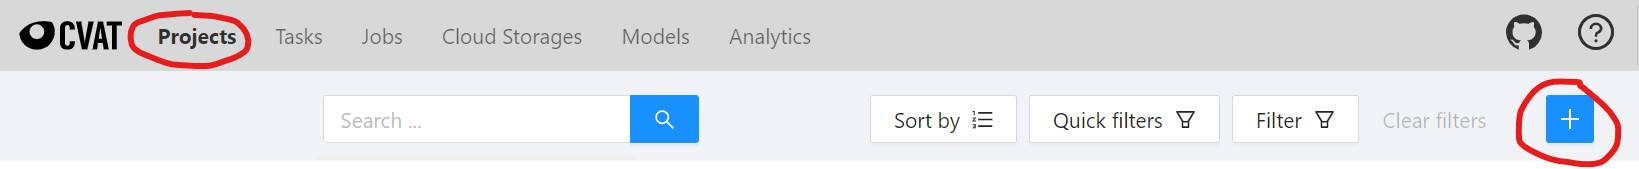
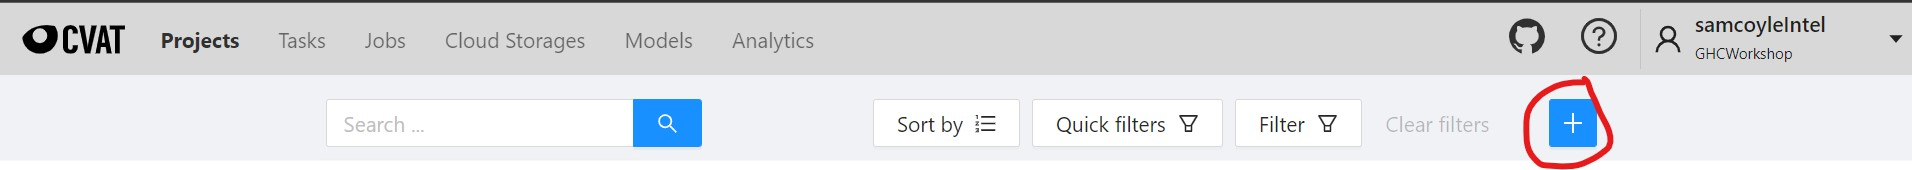
docs(pics): add more pics for steps

diff --git a/annotationSteps.md b/annotationSteps.md
@@ -17,11 +17,12 @@ Jobs allow you to split up tasks by frame to divvy up the annotations among a te
         Please disregard and close the note.
       ![CVAT Notice](./assets/screenshots/notice.jpg)
 2. Use the top navigation bar to click `Projects`.
+    ![CVAT Project Tab](./assets/screenshots/projects.jpg)
 3. Click the blue `+` sign to create a new project.
-      ![CVAT Project](./assets/screenshots/createProject.jpg)
+    ![CVAT Project](./assets/screenshots/createProject.jpg)
 4. Copy the details from the image below to fill out the project to be created. 
       For the raw label data, copy/paste the data snipped below the picture.
-   ![CVAT Project](./assets/screenshots/project.jpg)
+   ![CVAT Project](./assets/screenshots/projectDetails.jpg)
 
     Raw Label data to copy/paste into the CVAT UI: 
 ```json
@@ -54,34 +55,33 @@ Jobs allow you to split up tasks by frame to divvy up the annotations among a te
         ]
       }
     ]
-  },
-  {
-    "name": "Face",
-    "id": 1205813,
-    "color": "#90e8ce",
-    "attributes": []
   }
 ]
 ```
 > Note: For more information on the labels used for the workshop, please refer to the [Annotation Specifications Doc](./annotationSpecifications.md).
 
 5. Click on your newly created project and click on the blue `+` sign at the bottom right of it to create a new `task` for it.
+    ![Create Task](./assets/screenshots/createTask.jpg)
 6. Create your tasks copying the details below and click submit on your task:
     ![CVAT Task](./assets/screenshots/task.jpg)
     > Note: The test footage may be found [here](./assets/video/workshopFootage.mp4).
       You will use this video file for your annotation sample data.
       It may take a few seconds-minutes to upload the video footage pending the network bandwidth.
 7. Click on the `Projects` tab and select the project you created.
-8. You should now see the `task` you just created.
+    ![Select Project](./assets/screenshots/selectProject.jpg)
+You should now see the `task` you just created.
 If this `task` does not show up, then allow a bit more time for the video to upload. 
-9. Click on the `Open` button next to your newly created `task`.
+8. Click on the `Open` button next to your newly created `task`.
 You should now see a `job` created by default for your `task`.
-10. Under the `job` details, assign the `job` to your username as seen below.
-    ![CVAT Job](./assets/screenshots/jobDetails.jpg)
-11. Click on the `job #` that was created above.
+   ![Open task](./assets/screenshots/openTask.jpg)
+9. Under the `job` details, assign the `job` to your username as seen below.
+   ![CVAT Job](./assets/screenshots/jobDetails.jpg)
+10. Click on the `job #` that was created above.
 This will take you to a screen where you can start data annotations.
 This is where you will use the supporting documents to perform your data annotations.
 Feel free to ask questions as needed during this time, and collaborate with those around you as you progress.
+    ![Start Annotations](./assets/screenshots/startAnnotations.jpg)
+    ![Start Annotations](./assets/screenshots/startAnnotations.jpg)
 
 
 ## Steps to follow to perform data annotations for frame 0
